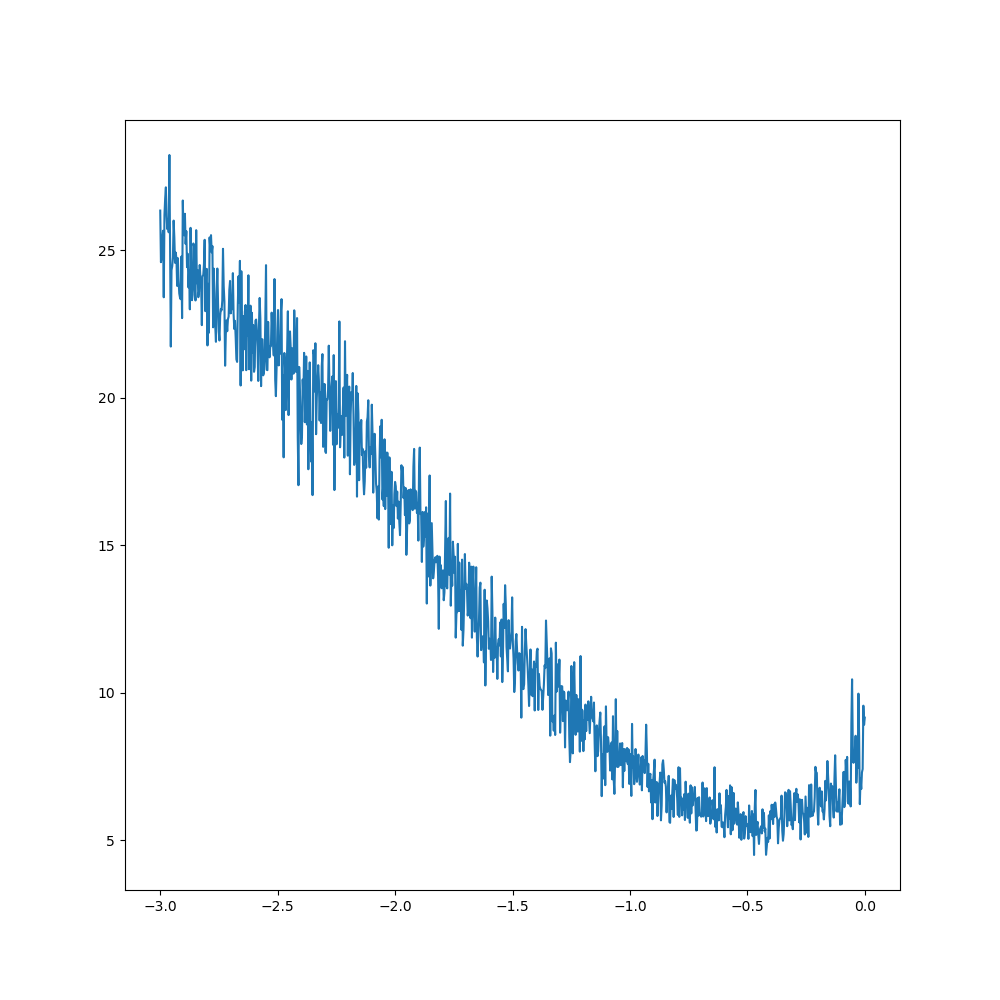
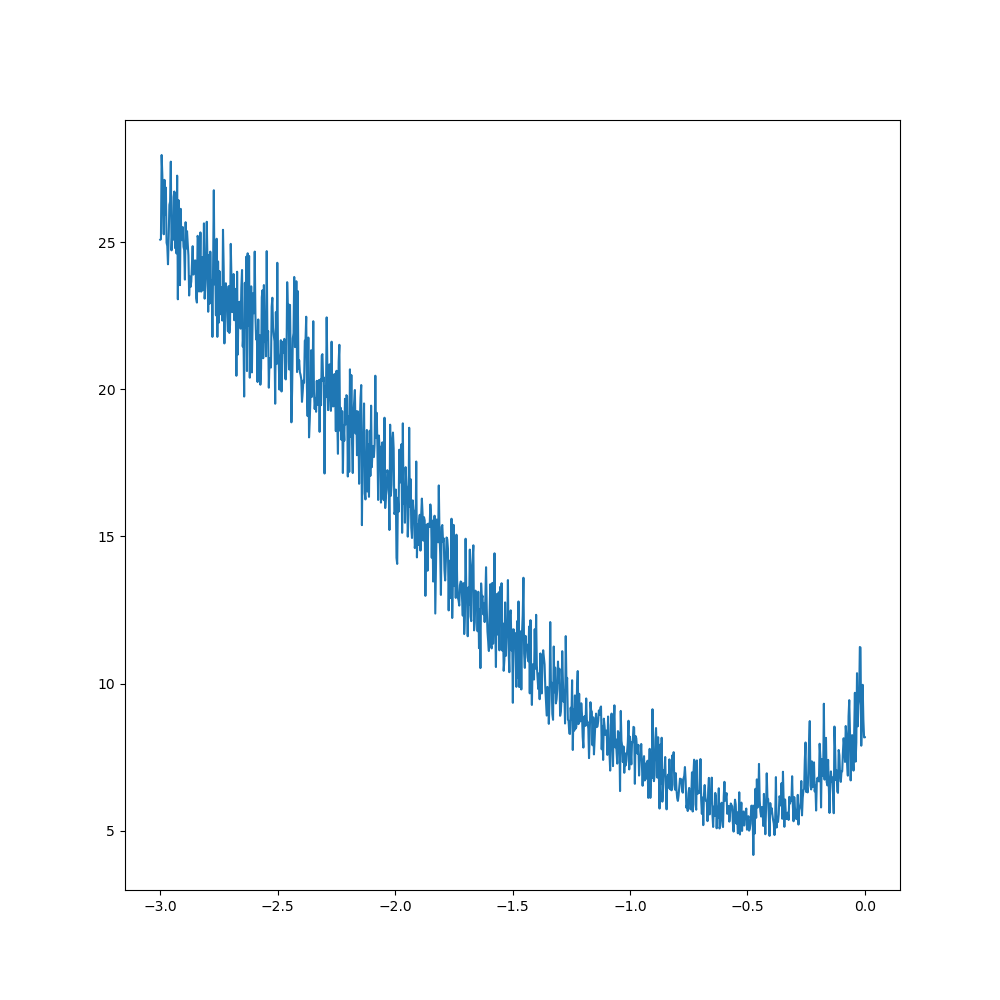
Reduce the epoch to 200000
Turns out that we do not need to train the model for 300000 epochs and
we could even get a better result when we trained for 200000 epochs.

diff --git a/multilayer_perceptron.py b/multilayer_perceptron.py
@@ -241,7 +241,7 @@ bias_2 = torch.randn(
     len(unique_characters), device=DEVICE, requires_grad=True, generator=generator
 )
 parameters = [embedding_layer, weights_1, bias_1, weights_2, bias_2]
-EPOCHS = 300000
+EPOCHS = 200000
 
 wandb.init(
     project="ml-gallery",
